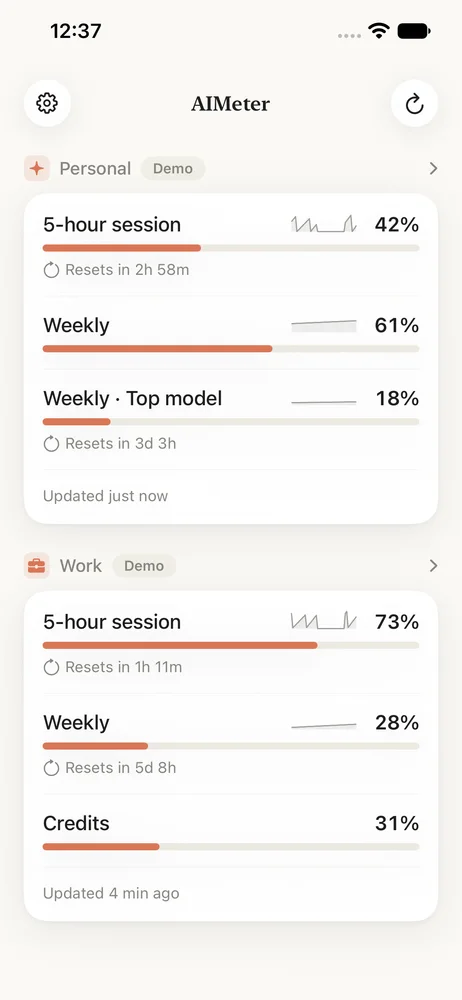
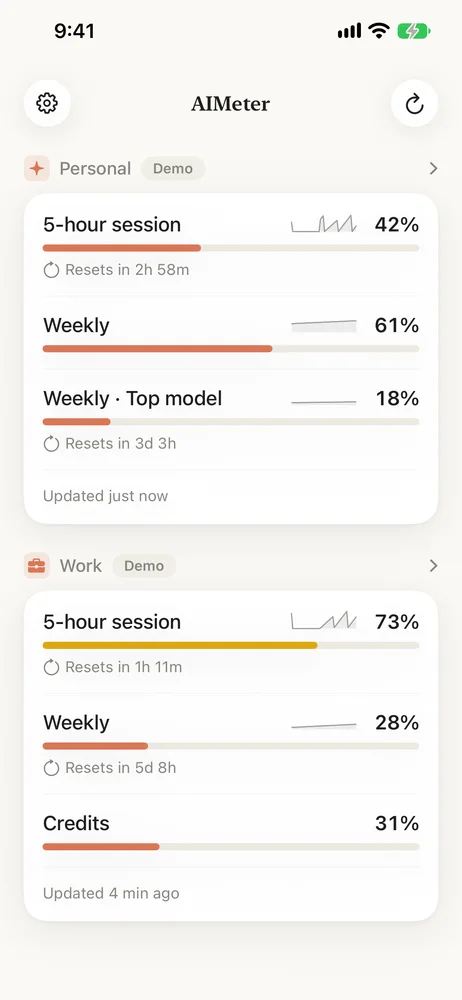
Release 3.0.0
Version 3.0.0, build 1, on both platforms. What's new for 3.0.0 gains
the Mac's three notch island items (the Claude Code sessions with their
pets, every account in the same columns, and the session's name kept
clear of the menu bar) and the tour, in all eight languages; the items
whose feature can be turned on name it, so the notes carry its card.

The website follows: 3.0 in the hero, the Mac section lists the pets
and the updates, the support page answers what the pets are and how the
Mac app updates (and no longer says the Mac app has to be built from
source), the privacy page carries today's date and says the optional
Accessibility permission reads where the menu titles and the menu bar's
icons are, and no title or host line uses a dash anymore. Two en dashes
left in a range in German and Chinese are hyphens now.

New store screenshots from the 3.0 app in demo mode, with a clean
status bar, and the first frame's subhead now says the bars turn yellow
and red as you near a limit; the store script copies the files the
sessions added. The website's images come from the same captures, and
its alerts capture is one of its own: the page shows a capture whole,
and the store's left the footnote that names the provider in view.
The notch island's three images on the website are 3.0's, built from the
desktop picture and the panel captured alone, so no window or other app's
icon is in them.

diff --git a/site/src/i18n/es.ts b/site/src/i18n/es.ts
@@ -2,7 +2,7 @@ import type { Dictionary } from './types'
 
 export const es = {
   meta: {
-    title: 'AIMeter — Tus límites de IA, de un vistazo',
+    title: 'AIMeter: Tus límites de IA, de un vistazo',
     description:
       'AIMeter te dice cuánto te queda de tu suscripción de IA: límites por sesión, semana y modelo en widgets, en la pantalla de bloqueo y en la barra de menús del Mac. Gratis, open source, sin servidor.',
   },
@@ -106,15 +106,17 @@ export const es = {
     styles: ['Medidor con el número', 'Solo medidor', 'Solo número', 'Barra', 'Batería', 'Dos o tres ventanas lado a lado'],
     extras: [
       'Isla del notch: 5h 42% 2h 58m | 7d 61% 3d 3h junto al notch, y todas las cuentas con barras y reinicios al abrirse',
+      'Una mascota de píxeles junto al notch por cada sesión de programación en la línea de comandos: camina mientras la sesión trabaja, se agita cuando necesita tu permiso y duerme cuando termina, con un conteo del otro lado',
       'Elige de qué lado del notch van las alas y qué ventanas listan; activarla oculta el ícono de la barra',
       'En una pantalla sin notch: un notch dibujado o una pastilla, su altura, y si espera fuera de la vista hasta que llegue el cursor',
       'Cuenta regresiva al reinicio y nombre de la cuenta, opcionales',
       'En amarillo cuando una ventana pasa del 70 %, en rojo del 85 %',
       'Oculta el ícono del Dock, el de la barra, o ambos',
       'Abrir al iniciar sesión, opcional y siempre visible en Ajustes',
+      'Se actualiza sola: revisa una vez al día, descarga en segundo plano e instala solo cuando reinicias desde el aviso',
       '⌘R actualizar, ⌘N agregar cuenta, y dos acciones de Atajos que puedes ligar a cualquier tecla',
     ],
-    note: 'La app de Mac no está en la Mac App Store: lee el inicio de sesión que ya guardan tus herramientas de línea de comandos, y el sandbox de la tienda no lo permite. Viene como un zip notarizado por Apple, para macOS 14 o posterior.',
+    note: 'La app de Mac no está en la Mac App Store: lee el inicio de sesión que ya guardan tus herramientas de línea de comandos, y el sandbox de la tienda no lo permite. Viene como un zip notarizado por Apple, para macOS 14 o posterior, y se mantiene al día sola.',
     download: 'Descargar para Mac',
     build: 'Compílala desde el código',
     islandAlt: 'La isla del notch en una MacBook, en tres estados: el notch a secas; dos cifras a sus lados cuando el cursor se detiene encima; y, expandida, dos cuentas con cada ventana, su barra y el tiempo hasta su reinicio.',
@@ -159,15 +161,15 @@ export const es = {
     description: 'Qué lee AIMeter, qué guarda en tu dispositivo y qué nunca sale de él.',
     intro:
       'AIMeter no tiene servidor ni cuenta propia. Lee tu uso de tu proveedor de IA con el inicio de sesión que le concedes, guarda una copia en tu dispositivo para que los widgets puedan dibujarla y no envía nada a ningún otro lado. Esta página enumera cada flujo de datos para que puedas cotejarlo con el código fuente.',
-    updated: 'Última actualización: 7 de octubre de 2026',
+    updated: 'Última actualización: 15 de octubre de 2026',
     sections: [
       {
         heading: 'Qué sale de tu dispositivo',
         paragraphs: ['Solo peticiones HTTPS al proveedor cuyo uso le pediste a AIMeter que lea (y, en la Mac, a GitHub para las actualizaciones), y nada hacia nosotros, porque no hay un “nosotros” al que enviarlo.'],
         bullets: [
-          'api.anthropic.com — /api/oauth/usage para tus límites y cifras de gasto, y /api/oauth/profile para resolver el nombre de tu plan (se vuelve a consultar como máximo cada 6 horas).',
-          'claude.ai y console.anthropic.com — el intercambio OAuth estándar al conectar una cuenta desde la app. Inicias sesión en la página del propio proveedor en tu navegador, nunca en una vista web incrustada, y pegas de vuelta el código que te muestra.',
-          'status.claude.com — una petición anónima a la página pública de estado en cada actualización, para distinguir un incidente del servicio de un problema con tu cuenta. No lleva nada sobre ti y se puede apagar en Ajustes.',
+          'api.anthropic.com: /api/oauth/usage para tus límites y cifras de gasto, y /api/oauth/profile para resolver el nombre de tu plan (se vuelve a consultar como máximo cada 6 horas).',
+          'claude.ai y console.anthropic.com: el intercambio OAuth estándar al conectar una cuenta desde la app. Inicias sesión en la página del propio proveedor en tu navegador, nunca en una vista web incrustada, y pegas de vuelta el código que te muestra.',
+          'status.claude.com: una petición anónima a la página pública de estado en cada actualización, para distinguir un incidente del servicio de un problema con tu cuenta. No lleva nada sobre ti y se puede apagar en Ajustes.',
           'api.github.com y github.com (solo en Mac): una vez al día, una consulta para saber si hay una versión más nueva de AIMeter y, si la hay, su descarga desde la página de versiones del proyecto. No lleva nada sobre ti y se puede apagar en Ajustes.',
           'Este sitio es estático: sin analíticas, sin cookies, con tipografías alojadas aquí mismo y sin peticiones a terceros. Lo sirve GitHub Pages, cuyos registros ordinarios de servidor son de GitHub.',
         ],
@@ -198,6 +200,12 @@ export const es = {
         heading: 'Sesiones de la línea de comandos en el notch (Mac)',
         paragraphs: [
           'Encendido mientras la isla del notch lo está, y se apaga con un interruptor en Ajustes. Para mostrar qué sesiones de Claude Code están trabajando, esperando tu permiso o terminadas, AIMeter sigue los registros de sesión en ~/.claude/projects y solo lee qué es cada registro y cuándo se escribió, además del título y la carpeta de cada sesión: nunca prompts, respuestas ni entradas de herramientas. No guarda nada ni envía nada a ningún lado. Si instalas los hooks opcionales, AIMeter agrega una entrada por evento a ~/.claude/settings.json (respalda el archivo antes y conserva todo lo demás), y Claude Code le pasa cada evento a AIMeter por una conexión privada en ese Mac a la que solo tu cuenta tiene acceso; AIMeter lee de qué sesión se trata y qué pasó, y descarta el resto. “Quitar” saca esas entradas de nuevo. La función no existe en iOS.',
+        ],
+      },
+      {
+        heading: 'Accesibilidad (Mac, opcional)',
+        paragraphs: [
+          'Solo si activas «No tapar la barra de menús» en Ajustes, macOS te pide permitir AIMeter en Accesibilidad. AIMeter lo usa para una sola cosa: saber dónde están los títulos de menú de la app abierta y los íconos de la barra de menús, para que la isla del notch se encoja antes de taparlos. No lee nada más, no cambia nada, no guarda nada y no envía nada a ningún lado.',
         ],
       },
       {
@@ -240,7 +248,7 @@ export const es = {
     title: 'Soporte',
     description: 'Cómo conectar una cuenta, qué significan las alertas y dónde pedir ayuda.',
     intro: 'AIMeter la construye y mantiene una sola persona, a la vista de todos. La mayoría de las respuestas están abajo; lo demás está a un issue de GitHub o un correo de distancia.',
-    updated: 'Para AIMeter 2.0',
+    updated: 'Para AIMeter 3.0',
     sections: [
       {
         heading: 'Conectar en iPhone y iPad',
@@ -273,7 +281,15 @@ export const es = {
       },
       {
         q: '¿Dónde está la versión para Mac?',
-        a: 'No está en la Mac App Store: la app de Mac lee el inicio de sesión que guarda tu herramienta de línea de comandos, y el sandbox de la tienda lo prohíbe. Compílala desde el código en unos minutos; con una cuenta de desarrollador gratuita basta para tus propias máquinas. El README lo explica paso a paso.',
+        a: 'No está en la Mac App Store: la app de Mac lee el inicio de sesión que guarda tu herramienta de línea de comandos, y el sandbox de la tienda lo prohíbe. Descárgala de las versiones del proyecto (Descargar para Mac, un zip notarizado por Apple) o compílala desde el código; el README explica ambas. Desde la 3.0 se mantiene al día sola.',
+      },
+      {
+        q: '¿Qué son las mascotas junto al notch?',
+        a: 'Cada sesión de Claude Code en curso en esa Mac tiene una mascota de píxeles: camina mientras la sesión trabaja, se agita junto a un ! amarillo cuando necesita tu permiso y se duerme unos segundos cuando termina. El conteo del otro lado del notch dice cuántas sesiones hay. Detén el cursor en el notch para ver el nombre de la sesión y qué está haciendo, o haz clic para ver todas las sesiones y tu uso. En Ajustes, la pestaña Claude Code apaga las mascotas, el nombre o toda la función, e instala los hooks opcionales que avisan a AIMeter en cuanto una sesión pide permiso.',
+      },
+      {
+        q: '¿Cómo se actualiza la app de Mac?',
+        a: 'Revisa las versiones del proyecto en GitHub un minuto después de abrirse y luego una vez al día, descarga la versión nueva en segundo plano y solo la conserva si cuadra: la misma firma, la misma app, la versión anunciada. Entonces te avisa, y solo la instala cuando eliges Reiniciar y actualizar. En Ajustes, General tiene la revisión diaria y Buscar ahora; el menú de la app tiene Buscar actualizaciones.',
       },
       {
         q: '¿Qué muestra la tercera fila?',
@@ -281,7 +297,7 @@ export const es = {
       },
       {
         q: '¿La app ve mis conversaciones?',
-        a: 'No. Llama a dos endpoints de solo lectura, tus ventanas de uso y tu perfil, con un token que no puede ejecutar prompts. La función opcional de Mac que lee los registros locales de la CLI decodifica solo conteos de tokens, nunca contenido.',
+        a: 'No. Llama a dos endpoints de solo lectura, tus ventanas de uso y tu perfil, con un token que no puede ejecutar prompts. La función opcional de Mac que lee los registros locales de la CLI decodifica solo conteos de tokens, nunca contenido. La vista de sesiones del notch lee solo qué es cada registro y cuándo se escribió, más el título y la carpeta de cada sesión.',
       },
       {
         q: '¿Cómo borro mis datos?',

diff --git a/site/src/i18n/en.ts b/site/src/i18n/en.ts
@@ -2,7 +2,7 @@ import type { Dictionary } from './types'
 
 export const en = {
   meta: {
-    title: 'AIMeter — Your AI limits, at a glance',
+    title: 'AIMeter: Your AI limits, at a glance',
     description:
       'AIMeter shows how much of your AI subscription is left: session, weekly and per-model limits in widgets, on the Lock Screen and in the Mac menu bar. Free, open source, no server.',
   },
@@ -106,15 +106,17 @@ export const en = {
     styles: ['Gauge with the number', 'Gauge only', 'Number only', 'Bar', 'Battery', 'Two or three windows side by side'],
     extras: [
       'Notch island: 5h 42% 2h 58m | 7d 61% 3d 3h beside the notch, every account with bars and resets when it opens',
+      'A pixel pet beside the notch for each command-line coding session at work: it walks while the session works, shakes when it needs your permission and sleeps when it is done, with a count on the other side',
       'Pick which side of the notch the wings use and which windows they list; turning it on hides the menu bar icon',
       'On a display without a notch: a drawn notch or a pill, its height, and whether it waits out of sight until the cursor comes',
       'Optional reset countdown and account name',
       'Yellow once a window passes 70 %, red past 85 %',
       'Hide the Dock icon, the menu bar icon, or both',
       'Open at login, opt-in and visibly toggleable',
+      'Updates itself: a daily check, a download in the background, and an install only when you restart from the notice',
       '⌘R refresh, ⌘N add account, and two Shortcuts actions you can bind to any key',
     ],
-    note: 'The Mac app is not on the Mac App Store: it reads the login your command-line tools already keep, which the store’s sandbox does not allow. It comes as a zip notarized by Apple, for macOS 14 or later.',
+    note: 'The Mac app is not on the Mac App Store: it reads the login your command-line tools already keep, which the store’s sandbox does not allow. It comes as a zip notarized by Apple, for macOS 14 or later, and keeps itself up to date.',
     download: 'Download for Mac',
     build: 'Build it from source',
     islandAlt: 'The notch island on a MacBook, three states: the bare notch; two figures beside it once the cursor rests there; and, expanded, two accounts with every window, a bar and the time to its reset.',
@@ -159,15 +161,15 @@ export const en = {
     description: 'What AIMeter reads, what it stores on your device, and what never leaves it.',
     intro:
       'AIMeter has no server and no account of its own. It reads your usage from your AI provider with the login you grant it, keeps a copy on your device so widgets can render, and sends nothing anywhere else. This page lists every data flow so you can check each one against the source.',
-    updated: 'Last updated: 7 October 2026',
+    updated: 'Last updated: 15 October 2026',
     sections: [
       {
         heading: 'What leaves your device',
         paragraphs: ['Only HTTPS requests to the provider whose usage you asked AIMeter to read (and, on the Mac, to GitHub for updates), and nothing to us, because there is no “us” to send it to.'],
         bullets: [
-          'api.anthropic.com — /api/oauth/usage for your limits and spend numbers, and /api/oauth/profile to resolve your plan name (re-checked at most every 6 hours).',
-          'claude.ai and console.anthropic.com — the standard OAuth sign-in exchange when you connect an account through the app. You sign in on the provider’s own page in your browser, never in an embedded web view, and paste back the code it shows.',
-          'status.claude.com — one anonymous request to the public status page on each refresh, to tell a service incident apart from a problem with your account. It carries nothing about you and can be turned off in Settings.',
+          'api.anthropic.com: /api/oauth/usage for your limits and spend numbers, and /api/oauth/profile to resolve your plan name (re-checked at most every 6 hours).',
+          'claude.ai and console.anthropic.com: the standard OAuth sign-in exchange when you connect an account through the app. You sign in on the provider’s own page in your browser, never in an embedded web view, and paste back the code it shows.',
+          'status.claude.com: one anonymous request to the public status page on each refresh, to tell a service incident apart from a problem with your account. It carries nothing about you and can be turned off in Settings.',
           'api.github.com and github.com (Mac only): once a day, a request asking whether a newer version of AIMeter exists, and its download from the project’s release page when there is one. It carries nothing about you and can be turned off in Settings.',
           'This website is static: no analytics, no cookies, fonts are self-hosted and no third-party request is made. It is served by GitHub Pages, whose ordinary server logs are GitHub’s.',
         ],
@@ -198,6 +200,12 @@ export const en = {
         heading: 'Command-line sessions in the notch (Mac)',
         paragraphs: [
           'On while the notch island is, and off with one switch in Settings. To show which Claude Code sessions are working, waiting for your permission or done, AIMeter follows the session logs in ~/.claude/projects and reads only what each record is and when it was written, plus each session’s title and folder: never prompts, replies or tool input. It keeps nothing and sends nothing anywhere. If you install the optional hooks, AIMeter adds one entry per event to ~/.claude/settings.json (backing the file up first and keeping everything else), and Claude Code passes each event to AIMeter over a private connection on that Mac that only your account can reach; AIMeter reads which session it is about and what happened, and discards the rest. Remove takes the entries out again. The feature does not exist on iOS.',
+        ],
+      },
+      {
+        heading: 'Accessibility (Mac, opt-in)',
+        paragraphs: [
+          'Only if you turn on “Avoid covering the menu bar” in Settings does macOS ask you to allow AIMeter under Accessibility. AIMeter uses it for one thing: reading where the open app’s menu titles and the menu bar’s icons are, so the notch island can shrink before it covers them. It reads nothing else, changes nothing, keeps nothing and sends nothing anywhere.',
         ],
       },
       {
@@ -240,7 +248,7 @@ export const en = {
     title: 'Support',
     description: 'How to connect an account, what the alerts mean, and where to ask for help.',
     intro: 'AIMeter is built and maintained by one person, in the open. Most answers are below; anything else is a GitHub issue or an email away.',
-    updated: 'For AIMeter 2.0',
+    updated: 'For AIMeter 3.0',
     sections: [
       {
         heading: 'Connecting on iPhone and iPad',
@@ -273,7 +281,15 @@ export const en = {
       },
       {
         q: 'Where is the Mac version?',
-        a: 'Not on the Mac App Store: the Mac app reads the login your command-line tool keeps, which the store’s sandbox forbids. Build it from the source in a few minutes; a free developer account is enough for your own machines. The README walks through it.',
+        a: 'Not on the Mac App Store: the Mac app reads the login your command-line tool keeps, which the store’s sandbox forbids. Download it from the project’s releases (Download for Mac, a zip notarized by Apple) or build it from source; the README walks through both. From 3.0 on it keeps itself up to date.',
+      },
+      {
+        q: 'What are the little pets beside the notch?',
+        a: 'Each Claude Code session at work on that Mac gets a pixel pet: it walks while the session works, shakes beside a yellow ! when it needs your permission, and falls asleep for a few seconds when it is done. The count on the other side of the notch says how many sessions there are. Rest the cursor on the notch to see the session’s name and what it is doing, or click for every session and your usage. In Settings, the Claude Code tab turns the pets, the name or the whole feature off, and installs the optional hooks that tell AIMeter the moment a session asks for permission.',
+      },
+      {
+        q: 'How does the Mac app update?',
+        a: 'It checks the project’s GitHub releases a minute after launch and then once a day, downloads a newer version in the background, and keeps it only if it checks out: the same signature, the same app, the announced version. Then it tells you, and installs only when you choose Restart to Update. Settings, General has the daily check and Check Now; the app menu has Check for Updates.',
       },
       {
         q: 'What does the third row show?',
@@ -281,7 +297,7 @@ export const en = {
       },
       {
         q: 'Does the app see my conversations?',
-        a: 'No. It calls two read-only endpoints, your usage windows and your profile, with a token that cannot run prompts. The optional Mac feature that reads the CLI’s local logs decodes only token counts, never content.',
+        a: 'No. It calls two read-only endpoints, your usage windows and your profile, with a token that cannot run prompts. The optional Mac feature that reads the CLI’s local logs decodes only token counts, never content. The notch’s session view reads only what each log record is and when it was written, plus each session’s title and folder.',
       },
       {
         q: 'How do I delete my data?',

diff --git a/Scripts/StoreFrames/Sources/Frames.swift b/Scripts/StoreFrames/Sources/Frames.swift
@@ -156,7 +156,7 @@ func renderFrames(rawDir: String, outDir: String, specs: [FrameSpec]) {
 }
 
 let phoneSpecs: [FrameSpec] = [
-    FrameSpec(name: "iphone-01-all-limits", headline: "All your AI limits,\none glance.", subhead: "Session, weekly and per-model windows for every account you connect, live.", image: "dashboard.png", textOnTop: true, device: .phone),
+    FrameSpec(name: "iphone-01-all-limits", headline: "All your AI limits,\none glance.", subhead: "Every window of every account,\nyellow and red as you near a limit.", image: "dashboard.png", textOnTop: true, device: .phone),
     FrameSpec(name: "iphone-02-widgets", headline: "Widgets that\nkeep score.", subhead: "Small, medium, large and Lock Screen. One account or all of them.", image: "home-widgets.png", textOnTop: true, device: .phone, tilt: 4),
     FrameSpec(name: "iphone-03-history", headline: "Every reset,\ncharted.", subhead: "24 hours, 7 days or 30 days for each limit, kept on your device.", image: "detail-week30.png", textOnTop: false, device: .phone),
     FrameSpec(name: "iphone-04-alerts", headline: "Alerts before you\nhit the wall.", subhead: "Near-limit, run-out, early-reset and sign-in alerts, per account.", image: "detail-smart.png", textOnTop: true, device: .phone, tilt: 4),
@@ -168,7 +168,7 @@ let phoneSpecs: [FrameSpec] = [
 ]
 
 let padSpecs: [FrameSpec] = [
-    FrameSpec(name: "ipad-01-all-limits", headline: "All your AI limits, one glance.", subhead: "Session, weekly and per-model windows for every account you connect, live.", image: "ipad-dashboard.png", textOnTop: true, device: .pad, tilt: -2),
+    FrameSpec(name: "ipad-01-all-limits", headline: "All your AI limits, one glance.", subhead: "Every window of every account,\nyellow and red as you near a limit.", image: "ipad-dashboard.png", textOnTop: true, device: .pad, tilt: -2),
     FrameSpec(name: "ipad-02-history", headline: "Every reset, charted.", subhead: "24 hours, 7 days or 30 days for each limit, kept on your device.", image: "ipad-detail.png", textOnTop: true, device: .pad, tilt: 2),
     // Not the alerts screen on iPad: the 13" display is tall enough that
     // the Spend and Extra usage cards — dollar amounts, a price reference

diff --git a/site/index.html b/site/index.html
@@ -3,7 +3,7 @@
   <head>
     <meta charset="UTF-8" />
     <meta name="viewport" content="width=device-width, initial-scale=1.0" />
-    <title>AIMeter — Your AI limits, at a glance</title>
+    <title>AIMeter: Your AI limits, at a glance</title>
     <meta
       name="description"
       content="AIMeter shows how much of your AI subscription is left: session, weekly and per-model limits in widgets, on the Lock Screen and in the Mac menu bar. Free, open source, no server."
@@ -16,7 +16,7 @@
     <meta name="apple-itunes-app" content="app-id=6797946742" />
     <meta property="og:type" content="website" />
     <meta property="og:site_name" content="AIMeter" />
-    <meta property="og:title" content="AIMeter — Your AI limits, at a glance" />
+    <meta property="og:title" content="AIMeter: Your AI limits, at a glance" />
     <meta
       property="og:description"
       content="Session, weekly and per-model limits in widgets, on the Lock Screen and in the Mac menu bar. Free, open source, no server."
@@ -26,7 +26,7 @@
     <meta property="og:image:width" content="1200" />
     <meta property="og:image:height" content="630" />
     <meta name="twitter:card" content="summary_large_image" />
-    <meta name="twitter:title" content="AIMeter — Your AI limits, at a glance" />
+    <meta name="twitter:title" content="AIMeter: Your AI limits, at a glance" />
     <meta
       name="twitter:description"
       content="Session, weekly and per-model limits in widgets, on the Lock Screen and in the Mac menu bar. Free, open source, no server."

diff --git a/site/src/pages/DocPage.tsx b/site/src/pages/DocPage.tsx
@@ -8,7 +8,7 @@ import { AUTHOR_URL, COPYRIGHT_YEAR, GITHUB_URL } from '../lib/site'
 
 export function DocPage({ page, children }: { page: DocPageData; children?: ReactNode }) {
   const { t } = useLanguage()
-  useDocumentMeta(`${page.title} — AIMeter`, page.description)
+  useDocumentMeta(`${page.title} · AIMeter`, page.description)
   return (
     <main className="px-inset-sm nav:px-inset nav:pt-40 flex flex-col pt-32 pb-16">
       <article className="mx-auto flex w-full max-w-2xl flex-col gap-10">

diff --git a/site/src/lib/site.ts b/site/src/lib/site.ts
@@ -10,7 +10,7 @@ export const GITHUB_BUILD_URL = `${GITHUB_URL}#building`
 export const MAC_DOWNLOAD_URL = `${GITHUB_URL}/releases/latest/download/AIMeter-macOS.zip`
 export const AUTHOR_URL = 'https://mikealvaradol.web.app/'
 export const SUPPORT_EMAIL = 'miguel_l06@hotmail.com'
-export const CURRENT_VERSION = '2.0'
+export const CURRENT_VERSION = '3.0'
 
 export const SECTION_IDS = ['features', 'widgets', 'privacy', 'open-source'] as const
 export type SectionId = (typeof SECTION_IDS)[number]

diff --git a/site/src/pages/NotFound.tsx b/site/src/pages/NotFound.tsx
@@ -4,7 +4,7 @@ import { useLanguage } from '../hooks/useLanguage'
 
 export function NotFound() {
   const { t } = useLanguage()
-  useDocumentMeta(`${t.notFound.title} — AIMeter`, t.notFound.body)
+  useDocumentMeta(`${t.notFound.title} · AIMeter`, t.notFound.body)
   return (
     <main className="flex min-h-svh flex-col items-center justify-center gap-4 px-6 text-center">
       <h1 className="font-display text-section text-ink">{t.notFound.title}</h1>

diff --git a/Scripts/StoreFrames/CLAUDE.md b/Scripts/StoreFrames/CLAUDE.md
@@ -38,11 +38,22 @@ accounts, "Personal" on the default mark and "Work" on a briefcase):
 `ipad-dashboard-dark.png` (the app's Appearance on Dark), plus `appicon.png` (`AIMeter/Assets.xcassets/AppIcon.appiconset/ios-light.png`)
 and `home-widgets.png` (from `shots`). Capture with
 `xcrun simctl io <udid> screenshot <file>` on a device nobody else is
-using (iPhone 17e and iPad Pro 13" M5 last time); the demo build is a
+using (iPhone 17e and iPad Pro 13" M5 for 2.0 and 3.0); the demo build is a
 plain `xcodebuild build` for the simulator, installed with
 `simctl install` and launched with `simctl launch`. Never place real
 accounts on a simulator for this; demo data is the source of every
-store image.
+store image. The 3.0 set (2026-10-14) was taken with a clean status
+bar (`xcrun simctl status_bar <udid> override --time 9:41 --batteryState
+charged --batteryLevel 100 …`; 2.0's showed the real time) and the
+simulator's own appearance for the dark captures (`xcrun simctl ui
+<udid> appearance dark`); demo mode came from a temporary DEBUG check
+for `-AIMeterDemo` at the end of `UsageModel.init`, never committed,
+instead of tapping through Settings. `detail-smart.png` is scrolled so
+the footnote under the alerts starts about two thirds down: the frame
+shows the top two thirds of the capture, and the footnote's sixth line
+names the provider. The website shows a capture whole, so it gets its
+own, `detail-smart-site.png`, scrolled until the card's bottom meets the
+screen's and the footnote is below the fold (`site/scripts/images.mjs`).
 
 ## Rules (store metadata is reviewed like the app)
 
@@ -99,7 +110,9 @@ add three pills (Free · Open source · No account).
     Scripts/store-frames.sh <work-dir> notch [es]  # → <work-dir>/notch-frames (see "Not store assets")
 
 The script copies sources rather than symlinking them: SwiftPM did not
-notice edits behind a symlink and rendered stale views once. Run it from
+notice edits behind a symlink and rendered stale views once. Its list of
+`Shared/` files is explicit, so a new file a copied one depends on has
+to join it (3.0 added the sessions' model, preferences and pets). Run it from
 a checkout whose `Shared/` matches the build you are shipping, since the
 widget views come from the working tree.
 
@@ -126,7 +139,17 @@ crops the strips, lays the panel over the collapsed strip (mirroring the
 desktop below the menu bar so no window shows) and writes the three
 `island-*.webp` files into `site/src/assets/` (see `site/CLAUDE.md`).
 The 2.0.0 set was taken on 2026-10-09 on a 14" M4 Max (1512 pt wide,
-the panel's frame at x 401). The one thing this pipeline renders for it
+the panel's frame at x 401). The 3.0.0 set (2026-10-14) could not use
+the real top edge: it held the working Mac's windows and other apps'
+status items beside the notch. So every piece was captured alone, on
+transparency: the desktop picture (`screencapture -o -l` of the
+WindowManager "Wallpaper" window that is on screen; the menu bar is
+transparent, so nothing else belongs in the strip) and the island's
+panel collapsed, peeking and expanded, and `site/scripts/island-strips.mjs
+<work-dir> 401` lays the first two panels over the wallpaper to make the
+two strips `island.mjs` reads. A window capture taken a few seconds after
+launch once returned the panel's previous frame (an expanded island while
+the screen showed it collapsed): look at each capture before using it. The one thing this pipeline renders for it
 is `Scripts/store-frames.sh <work-dir> notch`: two 16:9 frames
 (2400×1350, `notch-frames/notch-01-island.png` and `notch-02-peek.png`)
 in the style above — backdrop, one claim, the capture in a bezel — from

diff --git a/site/CLAUDE.md b/site/CLAUDE.md
@@ -72,10 +72,16 @@ analytics, no cookies, no CDN fonts), which the privacy page states.
   real 200 on the privacy and support URLs), writes `sitemap.xml`,
   `robots.txt` and `.nojekyll`.
 - `scripts/images.mjs` — turns a `Scripts/store-frames.sh` work dir
-  (`raw/`, `widget-shots/`) into the WebP files in `src/assets`.
+  (`raw/`, `widget-shots/`) into the WebP files in `src/assets`. The
+  alerts capture is `raw/detail-smart-site.png`, not the store's: the
+  page shows a capture whole, and the store's leaves the footnote that
+  names the provider in view (the store frame cuts it off).
 - `scripts/island.mjs` — turns the notch island captures (two top-edge
   strips and the expanded panel alone, see `Scripts/StoreFrames/CLAUDE.md`
   → "Not store assets") into `src/assets/island-*.webp`.
+  `scripts/island-strips.mjs` builds those two strips from the desktop
+  picture and the panel captured alone, when the real top edge holds
+  windows or other apps' status items.
 - `public/` — favicons and `apple-touch-icon.png` from the app icon,
   `icon-192/512.png` + `site.webmanifest`, `og.png` (1200×630, the
   centre crop of the store header asset).

diff --git a/AIMeter/CLAUDE.md b/AIMeter/CLAUDE.md
@@ -792,7 +792,7 @@
   `AIMeterApp.updateWindowID`, opened through
   `AppChrome.openUpdateWindow`, the same bridge shape as
   `openDashboard`; a request made before the Dashboard scene appeared
-  waits in `pendingUpdateWindow`): with an update ready, "AIMeter 2.1.0
+  waits in `pendingUpdateWindow`): with an update ready, "AIMeter 3.0.0
   is ready" over its notes without their cards (or a link to the
   release on GitHub when it has none), a line saying to move the app to
   Applications when it can't be replaced in place, and "Later" /
@@ -807,7 +807,7 @@
   could open a window afterwards (measured, after the app was killed with
   the notes open: no island either, before `AIMeterApp.init` published the
   preferences). The
-  `UpdateReadyNotice` ("AIMeter 2.1.0 is ready", the accent wash, opens
+  `UpdateReadyNotice` ("AIMeter 3.0.0 is ready", the accent wash, opens
   this window) sits at the top of the menu bar popover and the
   Dashboard while an update waits; the notch island's footer adds an
   icon beside Settings.

diff --git a/CLAUDE.md b/CLAUDE.md
@@ -1657,7 +1657,7 @@ key exactly (`%@`, `%lld`, `%%`, positional `%1$@` when reordered).
   menu-bar utilities and unproblematic. A global re-entry hotkey was
   rejected precisely because it would add an Accessibility/Input Monitoring
   permission and the review scrutiny that comes with it. The one
-  Accessibility use there is, since 2.1, is opt-in and narrow: "Avoid
+  Accessibility use there is, since 3.0, is opt-in and narrow: "Avoid
   covering the menu bar" asks for it only when switched on and reads only
   where the open app's menu titles and the menu bar's status items are
   (see "Claude Code sessions"), disclosed
